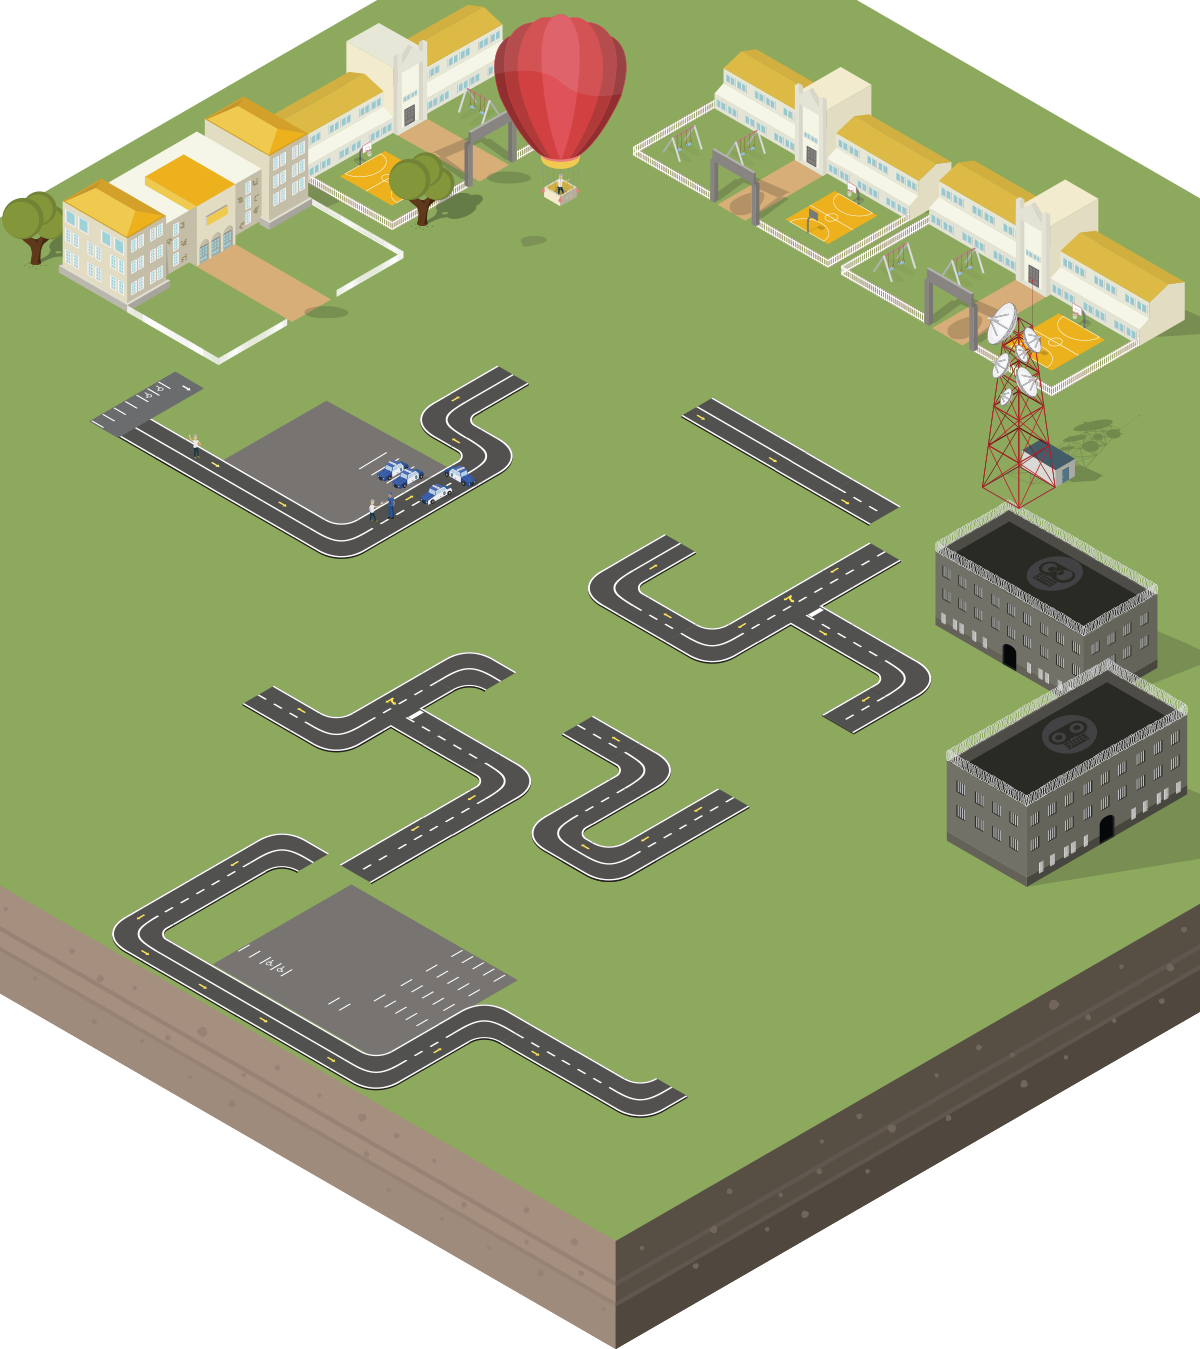
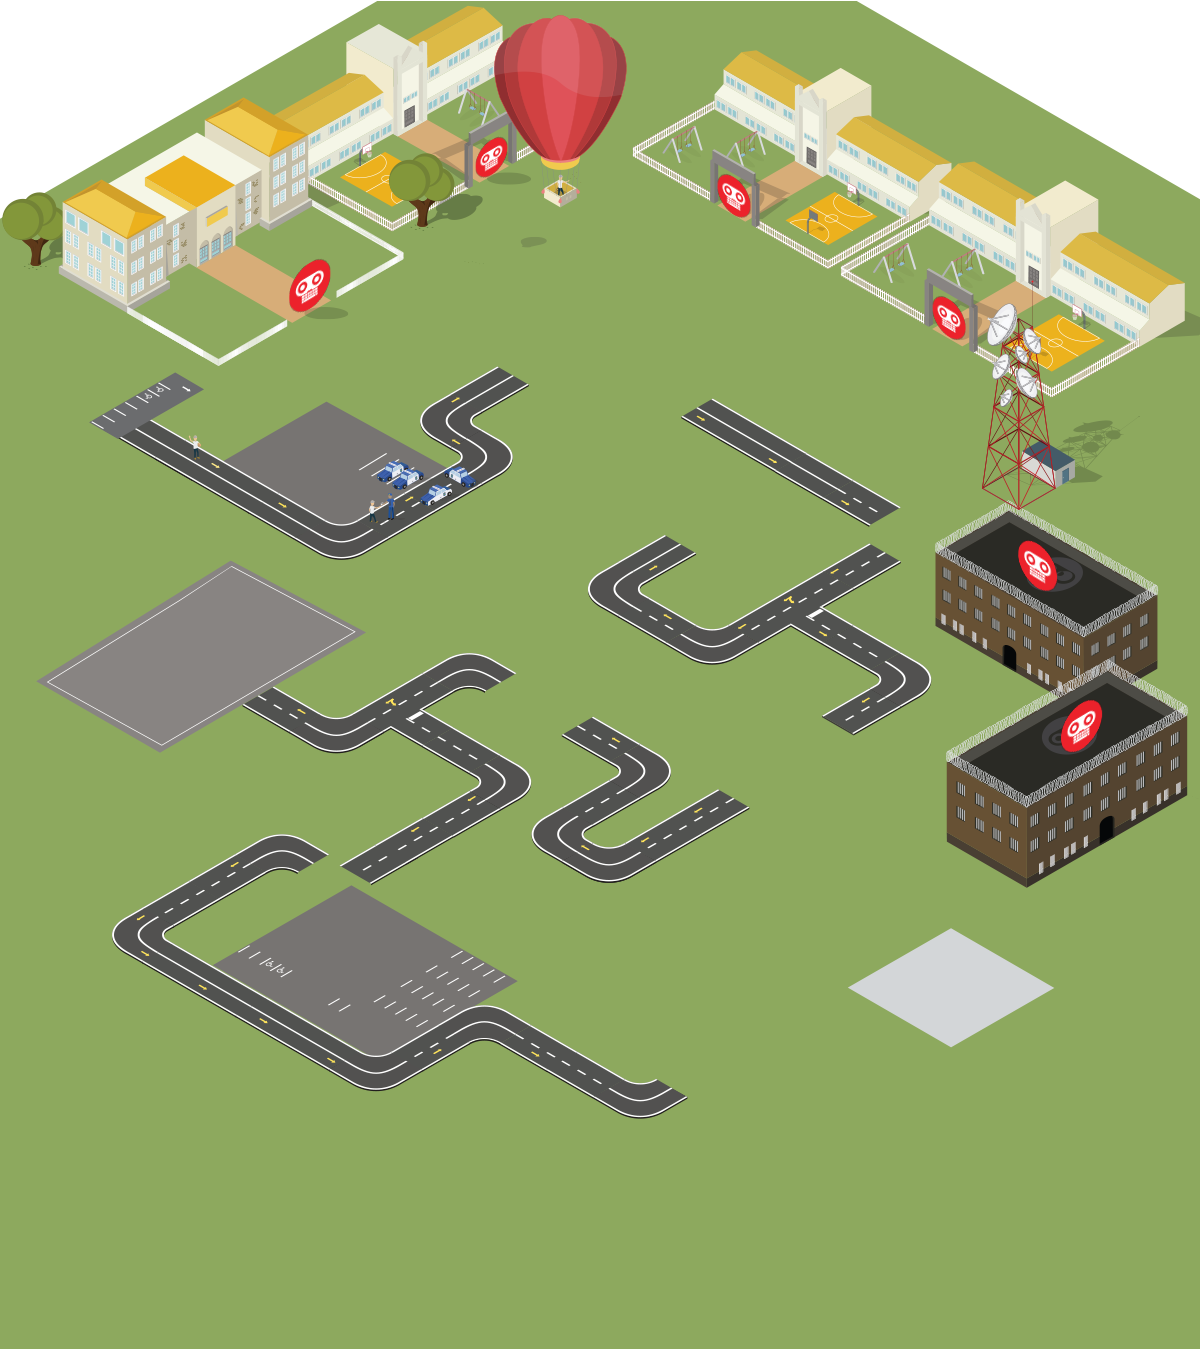
finished the map

diff --git a/c/master.css b/c/master.css
@@ -1087,7 +1087,7 @@ sponsors
 */
 #map-outer{
 	width:100%;
-	height:100%;
+	height:1280px;
 	background: #8da95f;
 	float: left;
 
@@ -1095,13 +1095,24 @@ sponsors
 #map {
   width:1000px;
   height:100%;
-  background: url(../map/i/map_blank.png);
-  background-size: 100% auto;
-  background-repeat: none;
+  background-image: url(../map/i/map_blank.png);
+	background-size: 100% auto;
+  background-repeat: no-repeat;
   margin: 0 auto;
   position: relative;
 }
-
+.map-detail{
+	background: #eeeeee;
+    width: 70%;
+    padding: 50px;
+    margin: 500px auto 0 auto;
+    max-width: 860px;
+}
+.map-detail img{
+	width:100%;
+	height: auto;
+	padding:25px 0; 
+}
 
 .map-hotspot {
   /*background: black;*/
@@ -1111,17 +1122,13 @@ sponsors
 	position: absolute;
   	cursor: pointer;
   	position: absolute;
-  	transition: all 0.7s ease 0.0s;
-	    -moz-transition: all 0.7s ease 0.0s;
-	    -webkit-transition: all 0.7s ease 0.0s;
-	    -o-transition: all 0.7s ease 0.0s;
-	    -ms-transition: all 0.7s ease 0.0s;
-
-  filter: grayscale(1);
-  	-webkit-filter: grayscale(1);
-  	-moz-filter: grayscale(1);
+  
+  	transform: scale(.833,.833);
+		-webkit-transform: scale(.833,.833);
+		-moz-transform: scale(.833,.833);
+		-ms-transform: scale(.833,.833);
 }
-/*.map-hotspot::after{
+.map-hotspot::after{
 	content: "";
     display: block;
     width: 2px;
@@ -1129,13 +1136,12 @@ sponsors
     margin-left: -1px;
     background-color: black;
     border-radius: 50px;
-    position: relative;
+    position: absolute;
     left: 50%;
-    margin-top:-60px;
-    position: relative;
+    margin-bottom:0px;
     z-index: -1;
+    opacity: .6;
 
-    opacity: 0;
     transform: scale(1,.3);
 	    -ms-transform: scale(1,.3); 
 	   	-webkit-transform: scale(1,.3);
@@ -1146,82 +1152,102 @@ sponsors
     -o-transition: all 0.7s ease 0.0s;
     -ms-transition: all 0.7s ease 0.0s; 
     
-}*/
+}
 .map-hotspot img{
 	width:auto;
 	height: auto;
 	position: relative;
 	z-index: 1;
+
+	filter: grayscale(1);
+  	-webkit-filter: grayscale(1);
+  	-moz-filter: grayscale(1);
+
+  	transition: all 0.7s ease 0.0s;
+	    -moz-transition: all 0.7s ease 0.0s;
+	    -webkit-transition: all 0.7s ease 0.0s;
+	    -o-transition: all 0.7s ease 0.0s;
+	    -ms-transition: all 0.7s ease 0.0s;
+	
+
 }
 .map-hotspot:hover{
-	filter: grayscale(1);
+
+
+	
+}
+.map-hotspot:hover img{
+	margin-top: -13px;
+		filter: grayscale(1);
   		-webkit-filter: grayscale(0);
   		-moz-filter: grayscale(0);
-	margin-top: -13px;
+
+  	
 }
-/*.map-hotspot:hover::after{
-	opacity:.2;
+.map-hotspot:hover::after{
+/*	opacity:.2;
 	width: 100px;
     height: 100px;
     margin-left: -50px;
-}*/
+    margin-bottom:-20px;*/
+}
 
 #zone1 {
-    top: 16.6%;
+    top: 17.4%;
     left: 0.7%;
 }
 
 #zone2 {
-  top: 26%;
+  top: 22%;
   left:20%;
 }
 #zone3 {
-    top: 8.9%;
-    left: 31.6%;
+    top: 9.3%;
+    left: 31%;
 }
 #zone4 {
     top: 24%;
     left: 67%;
 }
 #zone5 {
-    top: 32.3%;
-    left: 70.8%;
+    top: 31.95%;
+    left: 71.4%;
 }
 #zone6 {
     top: 30.5%;
     left: 50%;
 }
 #zone7 {
-    top: 26%;
-    left: 20%;
+    top: 34.5%;
+    left: 73%;
 }
 #zone8 {
-    top: 40.5%;
-    left: 56%;
+    top: 41%;
+    left: 54%;
 }
 #zone9 {
-	top: 41.8%;
-    left: 37%;
+	top: 41.4%;
+    left: 37.2%;
 }
 #zone10 {
-  top: 26%;
-  left:20%;
+  top: 30%;
+  left:1%;
 }
 #zone11 {
-  top: 26%;
-  left:20%;
+  top: 45.6%;
+  left:33%;
 }
 #zone12 {
-  top: 26%;
-  left:20%;
+  top: 45.6%;
+  left:4%;
 }
 #zone13 {
-  top: 26%;
-  left:20%;
+  top: 49.5%;
+  left:19%;
 }
 #zone14 {
-  top: 26%;
-  left:20%;
+  top: 50.5%;
+  left:51.5%;
 }
 #zone15 {
   top: 26%;

diff --git a/map/index.php b/map/index.php
@@ -283,7 +283,7 @@ wrote some very kind things about us.
 $(document).ready(function(){
 	
 	var docwidth = $(document).width();
-	$("#map-outer").height(docwidth);
+	// $("#map-outer").height(docwidth);
 
 	$('#map div').click(function () {
 		var thisID = $(this).attr("id");
@@ -291,7 +291,7 @@ $(document).ready(function(){
 		$(".map-detail." + thisID).show();
 		$(".map-detail:not(." + thisID + ")").hide();
 			$('html, body').animate({
-				scrollTop: $('#donate-modal').offset().top
+				scrollTop: $("#tier2").height()
 			}, 500);
 	});
 
